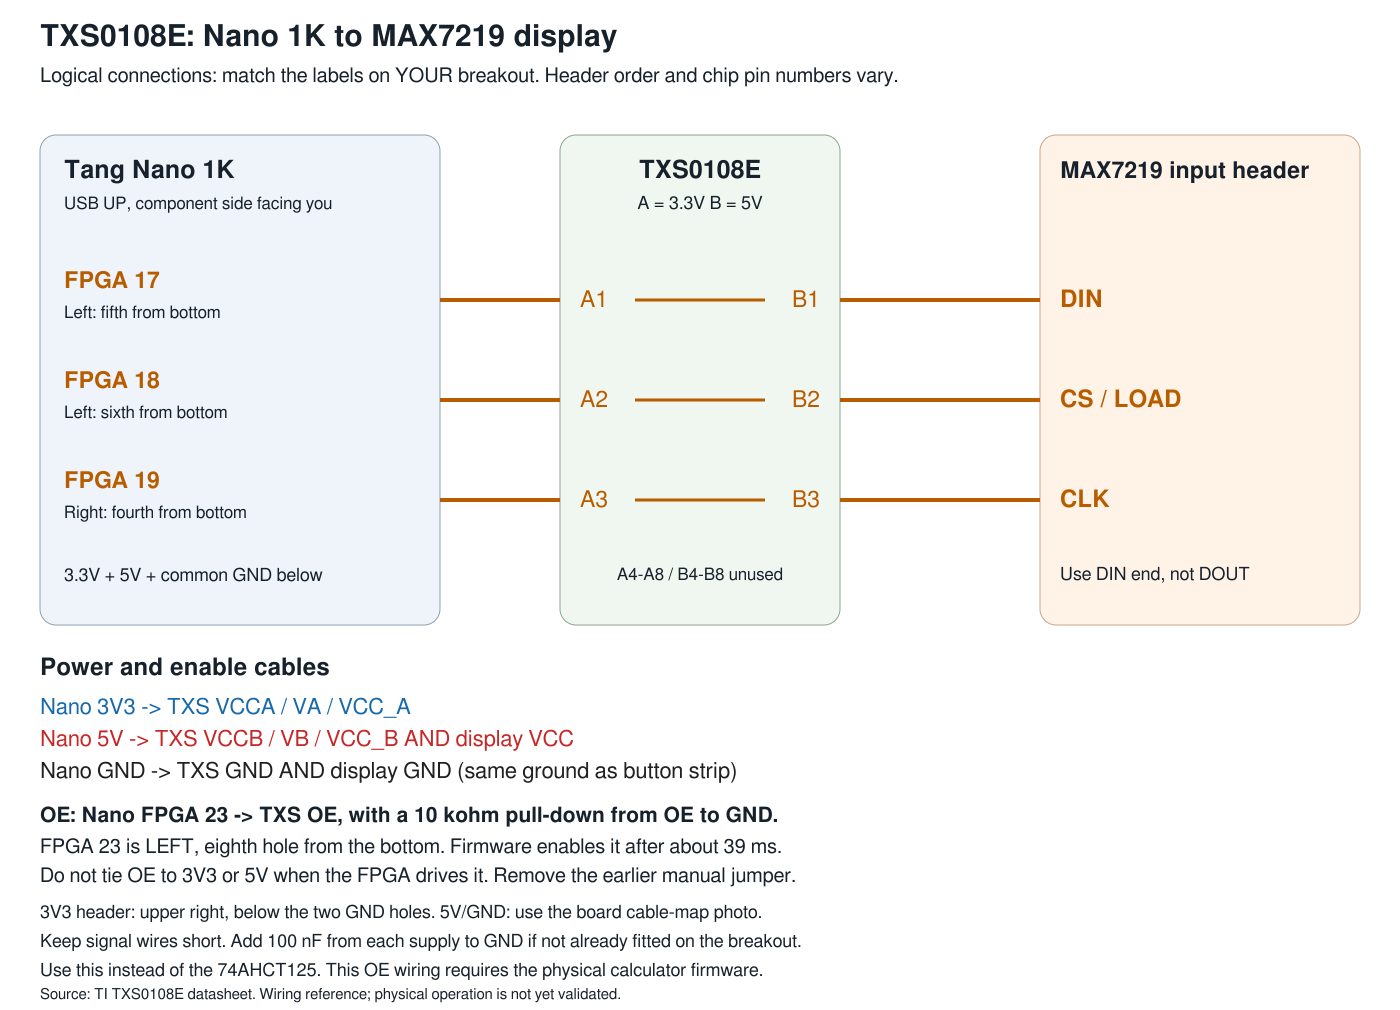
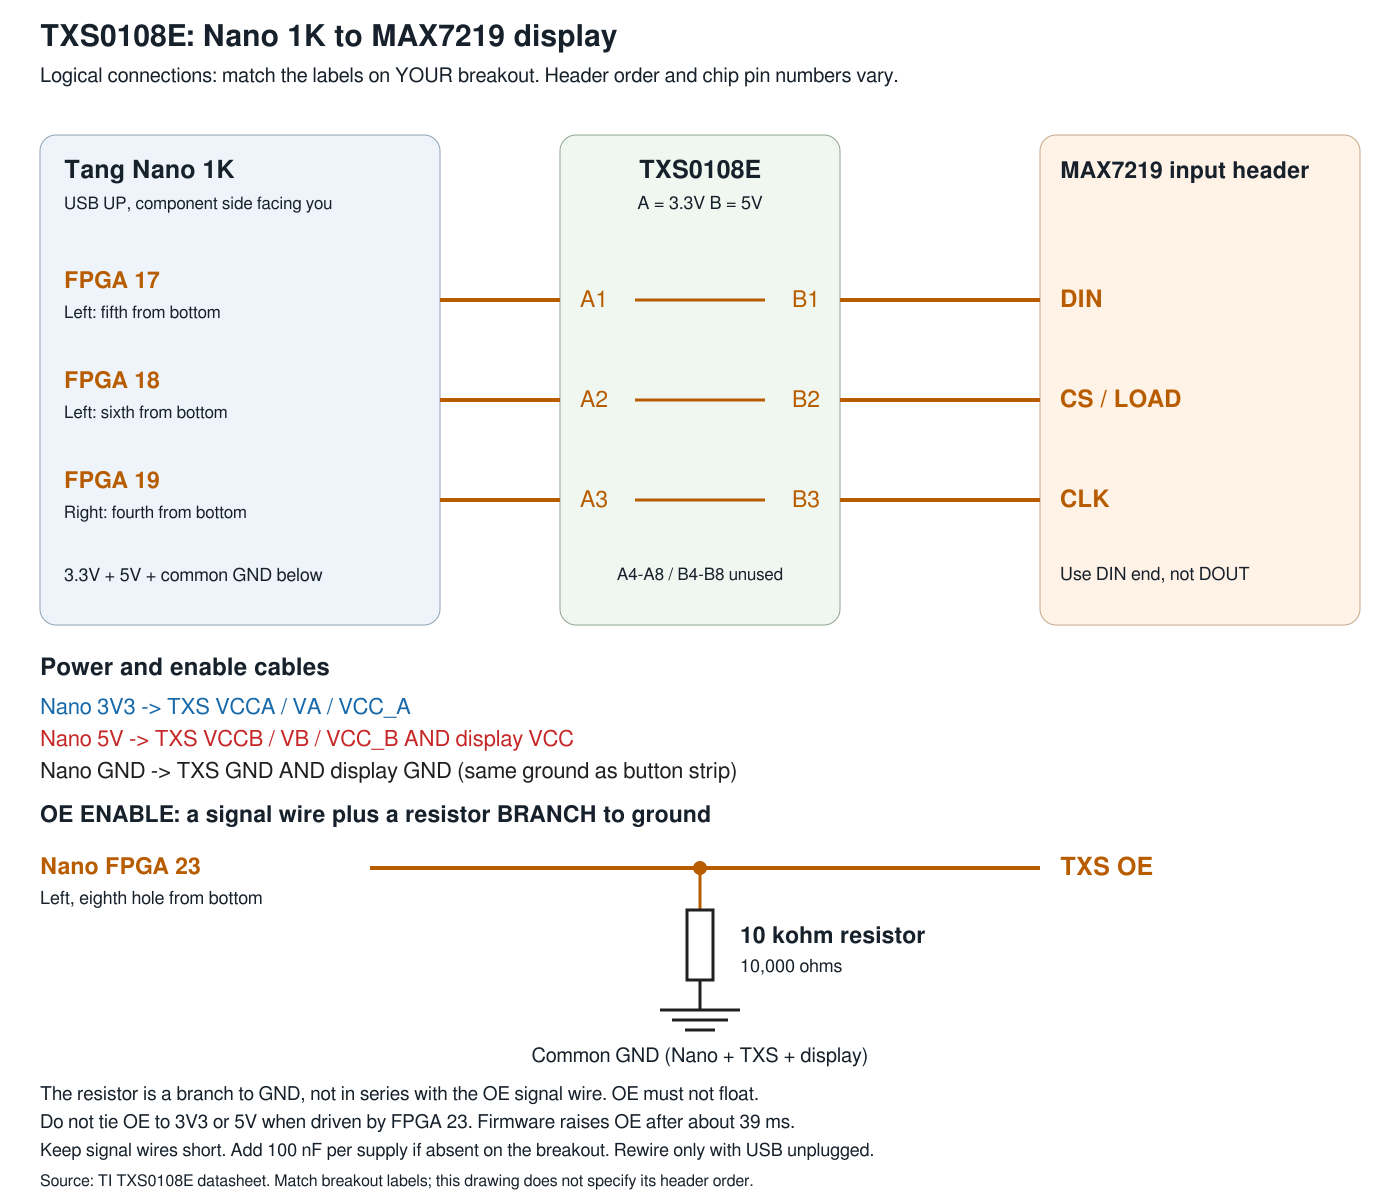
Clarify TXS0108E OE wiring for blank-display diagnosis
Draw FPGA23-to-OE explicitly with a 10 kohm branch to ground, rather than leaving the resistor in a text footer. Explain that missing pull-down alone does not keep a properly driven OE disabled. Record the user's first blank display with green LED and leave electrical diagnosis pending. Regenerated and visually inspected the wiring diagram; no FPGA programming occurred.

diff --git a/scripts/wiring-diagram.py b/scripts/wiring-diagram.py
@@ -93,7 +93,7 @@ parts.append('</g></svg>')
 (ROOT/'docs/images/level-shifter.svg').write_text('\n'.join(parts)+'\n')
 
 # TXS0108E breakout alternative: logical labels, never assumed header order.
-parts = start(1400,1010, 'TXS0108E breakout wiring for the Nano 1K and MAX7219')
+parts = start(1400,1200, 'TXS0108E breakout wiring for the Nano 1K and MAX7219')
 parts += [txt(40,46,'TXS0108E: Nano 1K to MAX7219 display',30,weight='bold'),txt(40,82,'Logical connections: match the labels on YOUR breakout. Header order and chip pin numbers vary.',20)]
 parts.append('<rect x="40" y="135" width="400" height="490" rx="16" fill="#eef4fa" stroke="#8da0b5"/><rect x="560" y="135" width="280" height="490" rx="16" fill="#f0f6f0" stroke="#8da58d"/><rect x="1040" y="135" width="320" height="490" rx="16" fill="#fff3e8" stroke="#c7a789"/>')
 parts += [txt(64,178,'Tang Nano 1K',25,weight='bold'),txt(64,209,'USB UP, component side facing you',17),txt(700,178,'TXS0108E',25,anchor='middle',weight='bold'),txt(700,209,'A = 3.3V     B = 5V',18,anchor='middle'),txt(1060,178,'MAX7219 input header',23,weight='bold')]
@@ -104,7 +104,11 @@ parts += [txt(64,581,'3.3V + 5V + common GND below',18),txt(700,580,'A4-A8 / B4-
 parts += [txt(40,675,'Power and enable cables',24,weight='bold')]
 rows=[('Nano 3V3  ->  TXS VCCA / VA / VCC_A','#1769aa'),('Nano 5V  ->  TXS VCCB / VB / VCC_B  AND  display VCC',COLORS['power']),('Nano GND  ->  TXS GND  AND  display GND  (same ground as button strip)',COLORS['gnd'])]
 for i,(s,c) in enumerate(rows): parts.append(txt(40,714+i*32,s,22,c))
-parts += [txt(40,822,'OE: Nano FPGA 23 -> TXS OE, with a 10 kohm pull-down from OE to GND.',21,weight='bold'),txt(40,853,'FPGA 23 is LEFT, eighth hole from the bottom. Firmware enables it after about 39 ms.',20),txt(40,882,'Do not tie OE to 3V3 or 5V when the FPGA drives it. Remove the earlier manual jumper.',20),txt(40,918,'3V3 header: upper right, below the two GND holes. 5V/GND: use the board cable-map photo.',18),txt(40,947,'Keep signal wires short. Add 100 nF from each supply to GND if not already fitted on the breakout.',18),txt(40,976,'Use this instead of the 74AHCT125. This OE wiring requires the physical calculator firmware.',18),txt(40,999,'Source: TI TXS0108E datasheet. Wiring reference; physical operation is not yet validated.',15)]
+parts += [txt(40,822,'OE ENABLE: a signal wire plus a resistor BRANCH to ground',23,weight='bold')]
+parts += [txt(40,874,'Nano FPGA 23',23,COLORS['spi'],weight='bold'),txt(40,904,'Left, eighth hole from bottom',18),line(370,868,1040,868,COLORS['spi'],4),txt(1060,875,'TXS OE',25,COLORS['spi'],weight='bold')]
+parts.append('<circle cx="700" cy="868" r="7" fill="#b85c00"/>')
+parts += [line(700,868,700,910,COLORS['spi']),'<rect x="687" y="910" width="26" height="70" fill="white" stroke="#202020" stroke-width="3"/>',txt(740,943,'10 kohm resistor',23,weight='bold'),txt(740,972,'10,000 ohms',18),line(700,980,700,1010,COLORS['gnd']),line(660,1010,740,1010,COLORS['gnd']),line(672,1020,728,1020,COLORS['gnd']),line(685,1030,715,1030,COLORS['gnd']),txt(700,1062,'Common GND (Nano + TXS + display)',20,anchor='middle')]
+parts += [txt(40,1100,'The resistor is a branch to GND, not in series with the OE signal wire. OE must not float.',19),txt(40,1128,'Do not tie OE to 3V3 or 5V when driven by FPGA 23. Firmware raises OE after about 39 ms.',19),txt(40,1156,'Keep signal wires short. Add 100 nF per supply if absent on the breakout. Rewire only with USB unplugged.',18),txt(40,1186,'Source: TI TXS0108E datasheet. Match breakout labels; this drawing does not specify its header order.',16)]
 parts.append('</g></svg>')
 (ROOT/'docs/images/txs0108e-wiring.svg').write_text('\n'.join(parts)+'\n')
 

diff --git a/docs/wiring.md b/docs/wiring.md
@@ -81,6 +81,12 @@ This is a logical connection diagram, not a specific breakout's header
 layout. Match printed labels on your module. VCCA goes to Nano 3V3;
 VCCB and display VCC go to 5V; all grounds join.
 
+**OE must not be left unconnected.** The 10 kohm resistor is a branch
+from the OE signal to ground, not a series resistor in the signal wire.
+It holds OE low before the FPGA starts; FPGA pin 23 then drives OE high.
+The missing resistor alone does not explain a persistently blank display
+if OE is already driven high. Check the OE connection and voltage.
+
 The calculator now drives TXS0108E OE from **FPGA package pin 23**,
 left eighth hole from the bottom. Add a 10 kohm pull-down from OE to
 GND; the FPGA enables it after about 39 ms. **Remove the old OE-to-3V3

diff --git a/CHANGES.md b/CHANGES.md
@@ -1,5 +1,11 @@
 # Changes
 
+## 2026-10-19
+
+- Wiring: draw TXS0108E OE and its 10 kohm pull-down explicitly,
+  distinguish the resistor branch from the signal wire, and record the
+  first blank-display/green-LED report with diagnosis pending.
+
 ## 2026-10-18
 
 - Calculator: add X_eTaL Front and reviewed new baselines, matching RTL,
